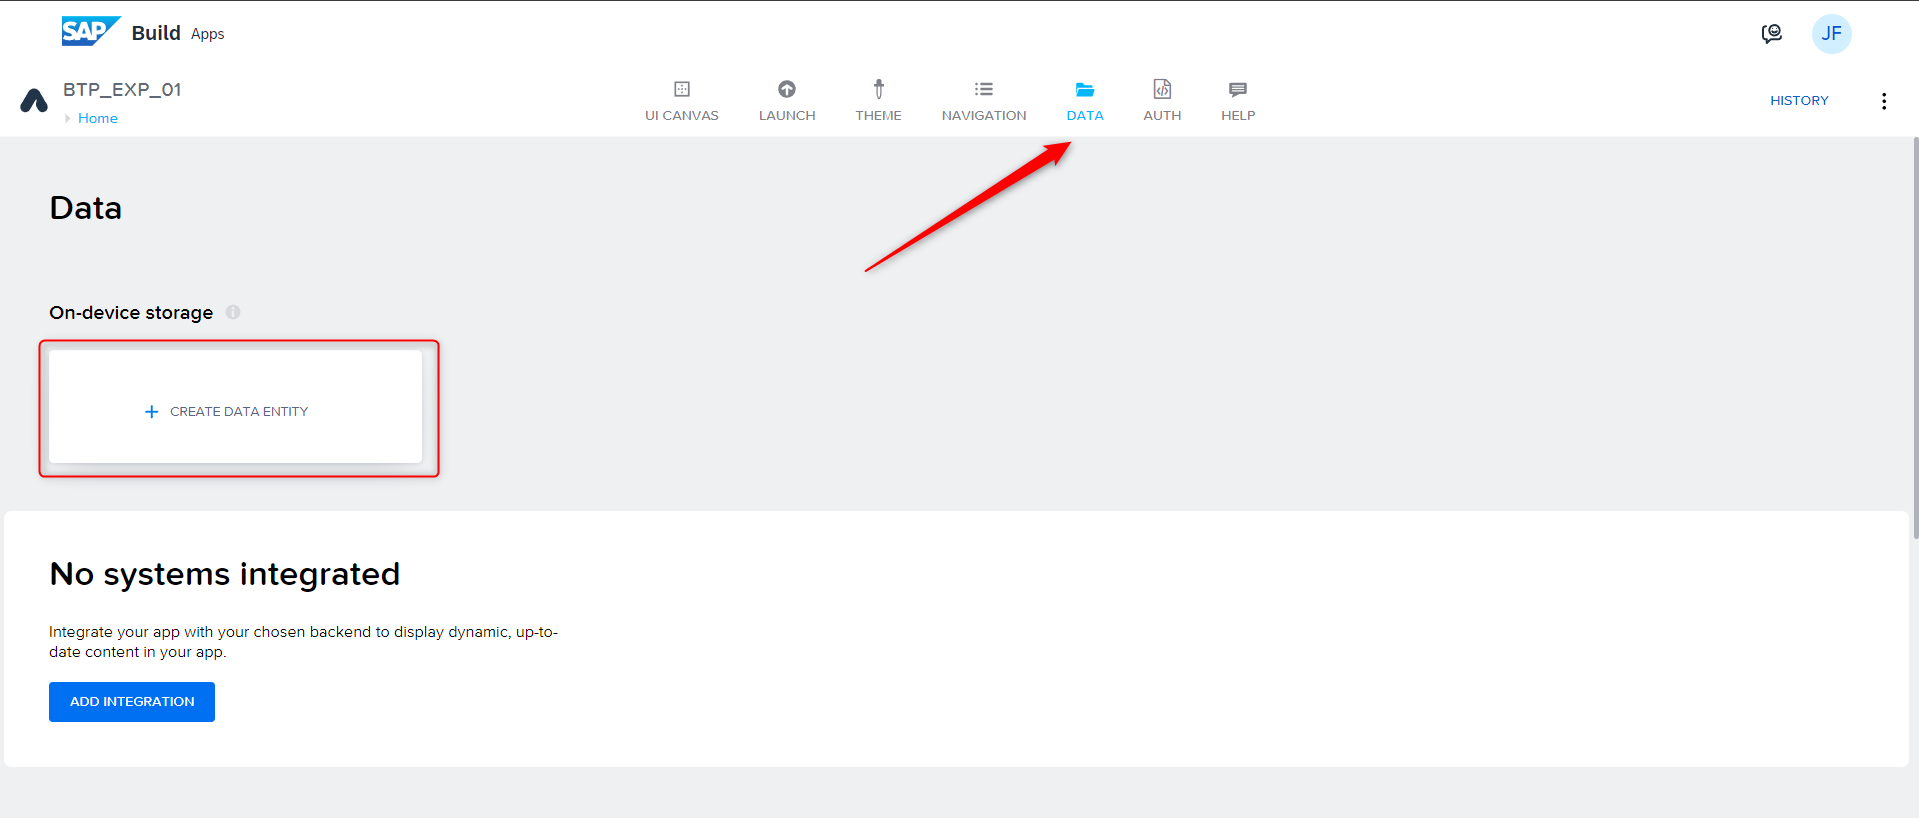
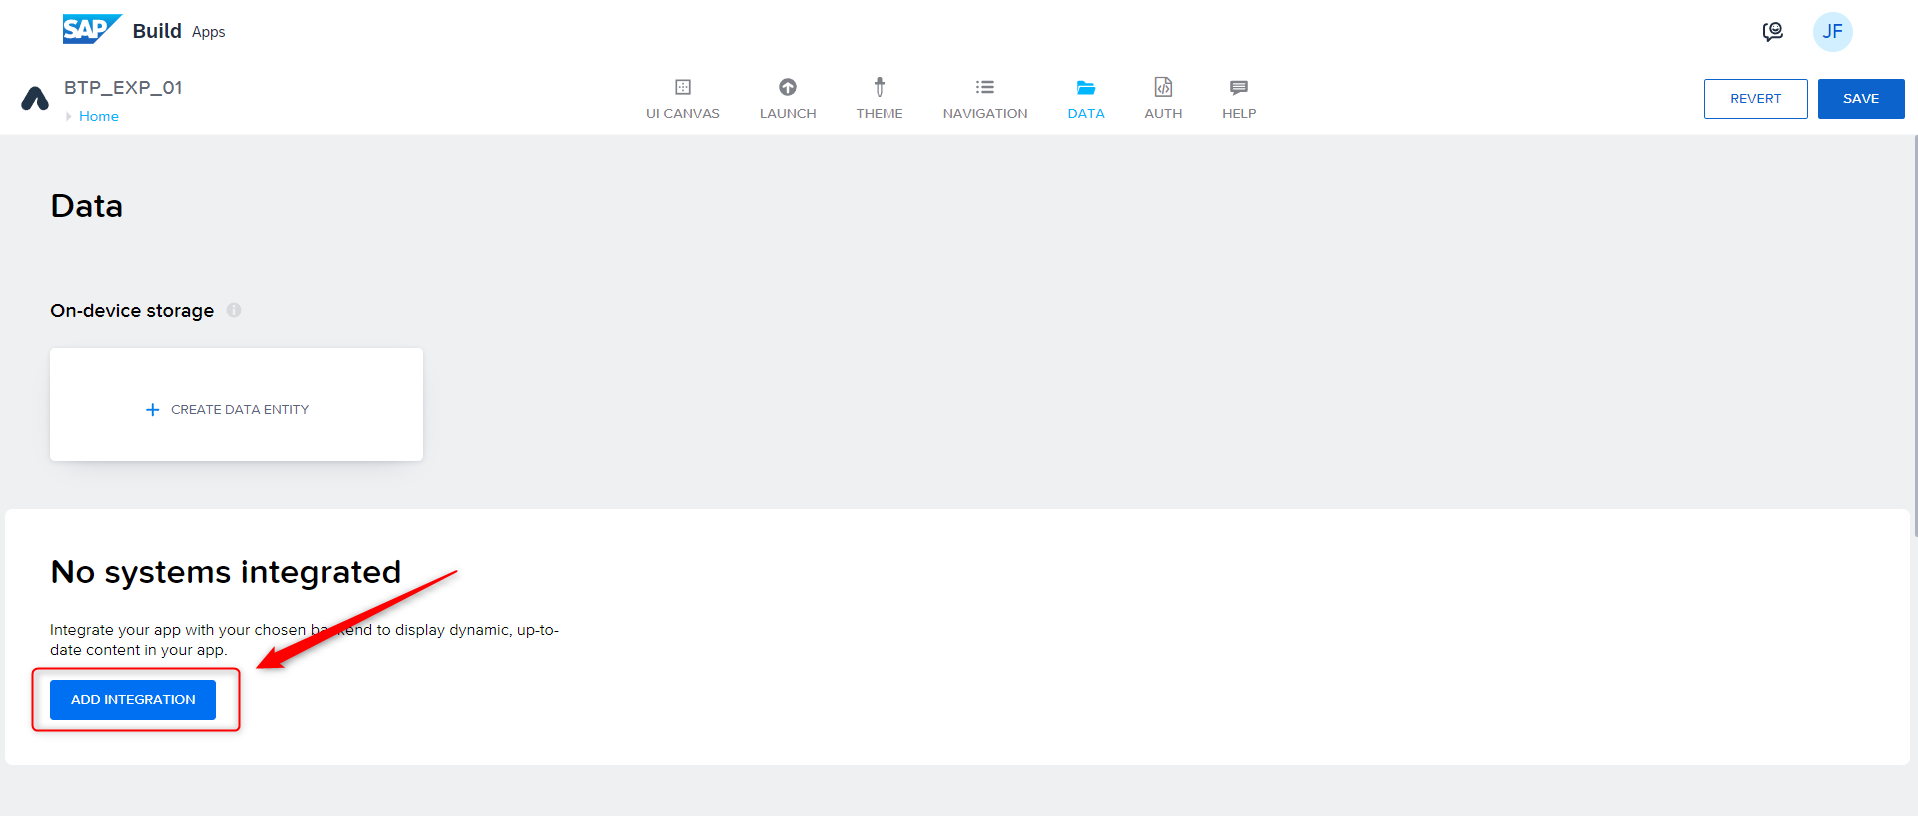
ex1

diff --git a/exercises/ex1/README.md b/exercises/ex1/README.md
@@ -63,47 +63,47 @@ Nesta seção, você irá criar uma nova aplicação usando o SAP Build Apps.
 
     <p align="center"><img src="./images/ex1_step2_11.png" width="100%" /></p>
 
-## Passo 3: Adicionando uma fonte de dados local
+## Passo 3: Habilitando autenticação
+
+Para consumir dados de um sistema SAP backend ou mock data que são configurados como uma destination SAP BTP, você precisa habilitar a autenticação.
+
+1. Clique na aba **AUTH** no topo do App Builder.
+
+2. Clique em habilitar autenticação.
+
+    <p align="center"><img src="./images/ex1_step3_a.png" width="100%" /></p>
+
+3. Selecione **SAP BTP Authentication** e clique em **OK**. Isso habilita a autenticação para o projeto.
+
+## Passo 4: Adicionando uma fonte de dados local
 
 Para adicionar uma fonte de dados local você precisa seguir os seguintes passos:
 
 1. Clique na aba **Data** no topo do App Builder.
 
-2. Procure a seção **On-device storage** e clique na opção  **CREATE DATA ENTITY**.
+2. Procure a seção **No system integrated** e clique na opção  **ADD INTEGRATION**.
 
     <p align="center"><img src="./images/ex1_step3_1.png" width="100%" /></p>
 
-3. Na próxima tela escreva o nome da entidade de dados como `Business_Partners` e clique em **ADD**.
+3. Na próxima tela, selecione **BTP Destinations**.
 
-    <p align="center"><img src="./images/ex1_step3_2.png" width="60%" /></p>
+4. Pesquise e selecione a destination `btp_experience_build_backend_dest`.
 
-4. Na próxima tela, clique no botão **ADD NEW** para adicionar um campos para a entidade de dados.
+5. Clique em instalar integração.
+
+6. Dentro da entidade de dados, selecione **Business_Partner**.
+
+    <p align="center"><img src="./images/ex1_step3_2.png" width="100%" /></p>
+
+7. Na próxima tela, clique no botão **Enable Data Entity**.
 
     <p align="center"><img src="./images/ex1_step3_3.png" width="100%" /></p>
 
-5. Na próxima tela, no campo **Field name** preencha com o valor `Partner_Name` e selecione o tipo de dados como **Text**.
-
-    <p align="center"><img src="./images/ex1_step3_4.png" width="60%" /></p>
-
-6. Repita os passos para os seguintes campos:
-
-    |Field name | Field type |
-    |----|----|
-    |Address | Text |
-    |Email | Text |
-    |Phone | Text |
-
-7. Agora vamos adicionar alguns dados fictícios para a entidade de dados. Clique no botão **BROWSE SAMPLE DATA**.
-
-    <p align="center"><img src="./images/ex1_step3_5.png" width="100%" /></p>
-
-8. Na próxima tela, clique no botão **NEW RECORD** para adicionar um novo registro. Fique a vontade para adicionar quantos registros desejar.
-
-    <p align="center"><img src="./images/ex1_step3_6.png" width="100%" /></p>
+8. Escolha **Save** no topo do app builder. Isso adiciona a fonte de dados ao seu projeto. Escolha **UI Canvas** para voltar para a visualização do designer de UI.
 
 9. Agora você adicionou uma fonte de dados para sua aplicação SAP Build Apps.
 
-## Passo 4: Criando uma página de lista de parceiros de negócios
+## Passo 5: Criando uma página de lista de parceiros de negócios
 
 Para criar uma página exibindo a lista de parceiros de negócios, você precisa primeiro criar **data variable**.
 
@@ -191,7 +191,7 @@ Agora vamos definir quais campos gostaríamos de exibir na interface do usuário
 
     <p align="center"><img src="./images/ex1_step4_nn7.png" width="50%" /></p>
 
-## Passo 5: Pré-visualização da aplicação
+## Passo 6: Pré-visualização da aplicação
 
 1. Clique na aba **LAUNCH**.
 
